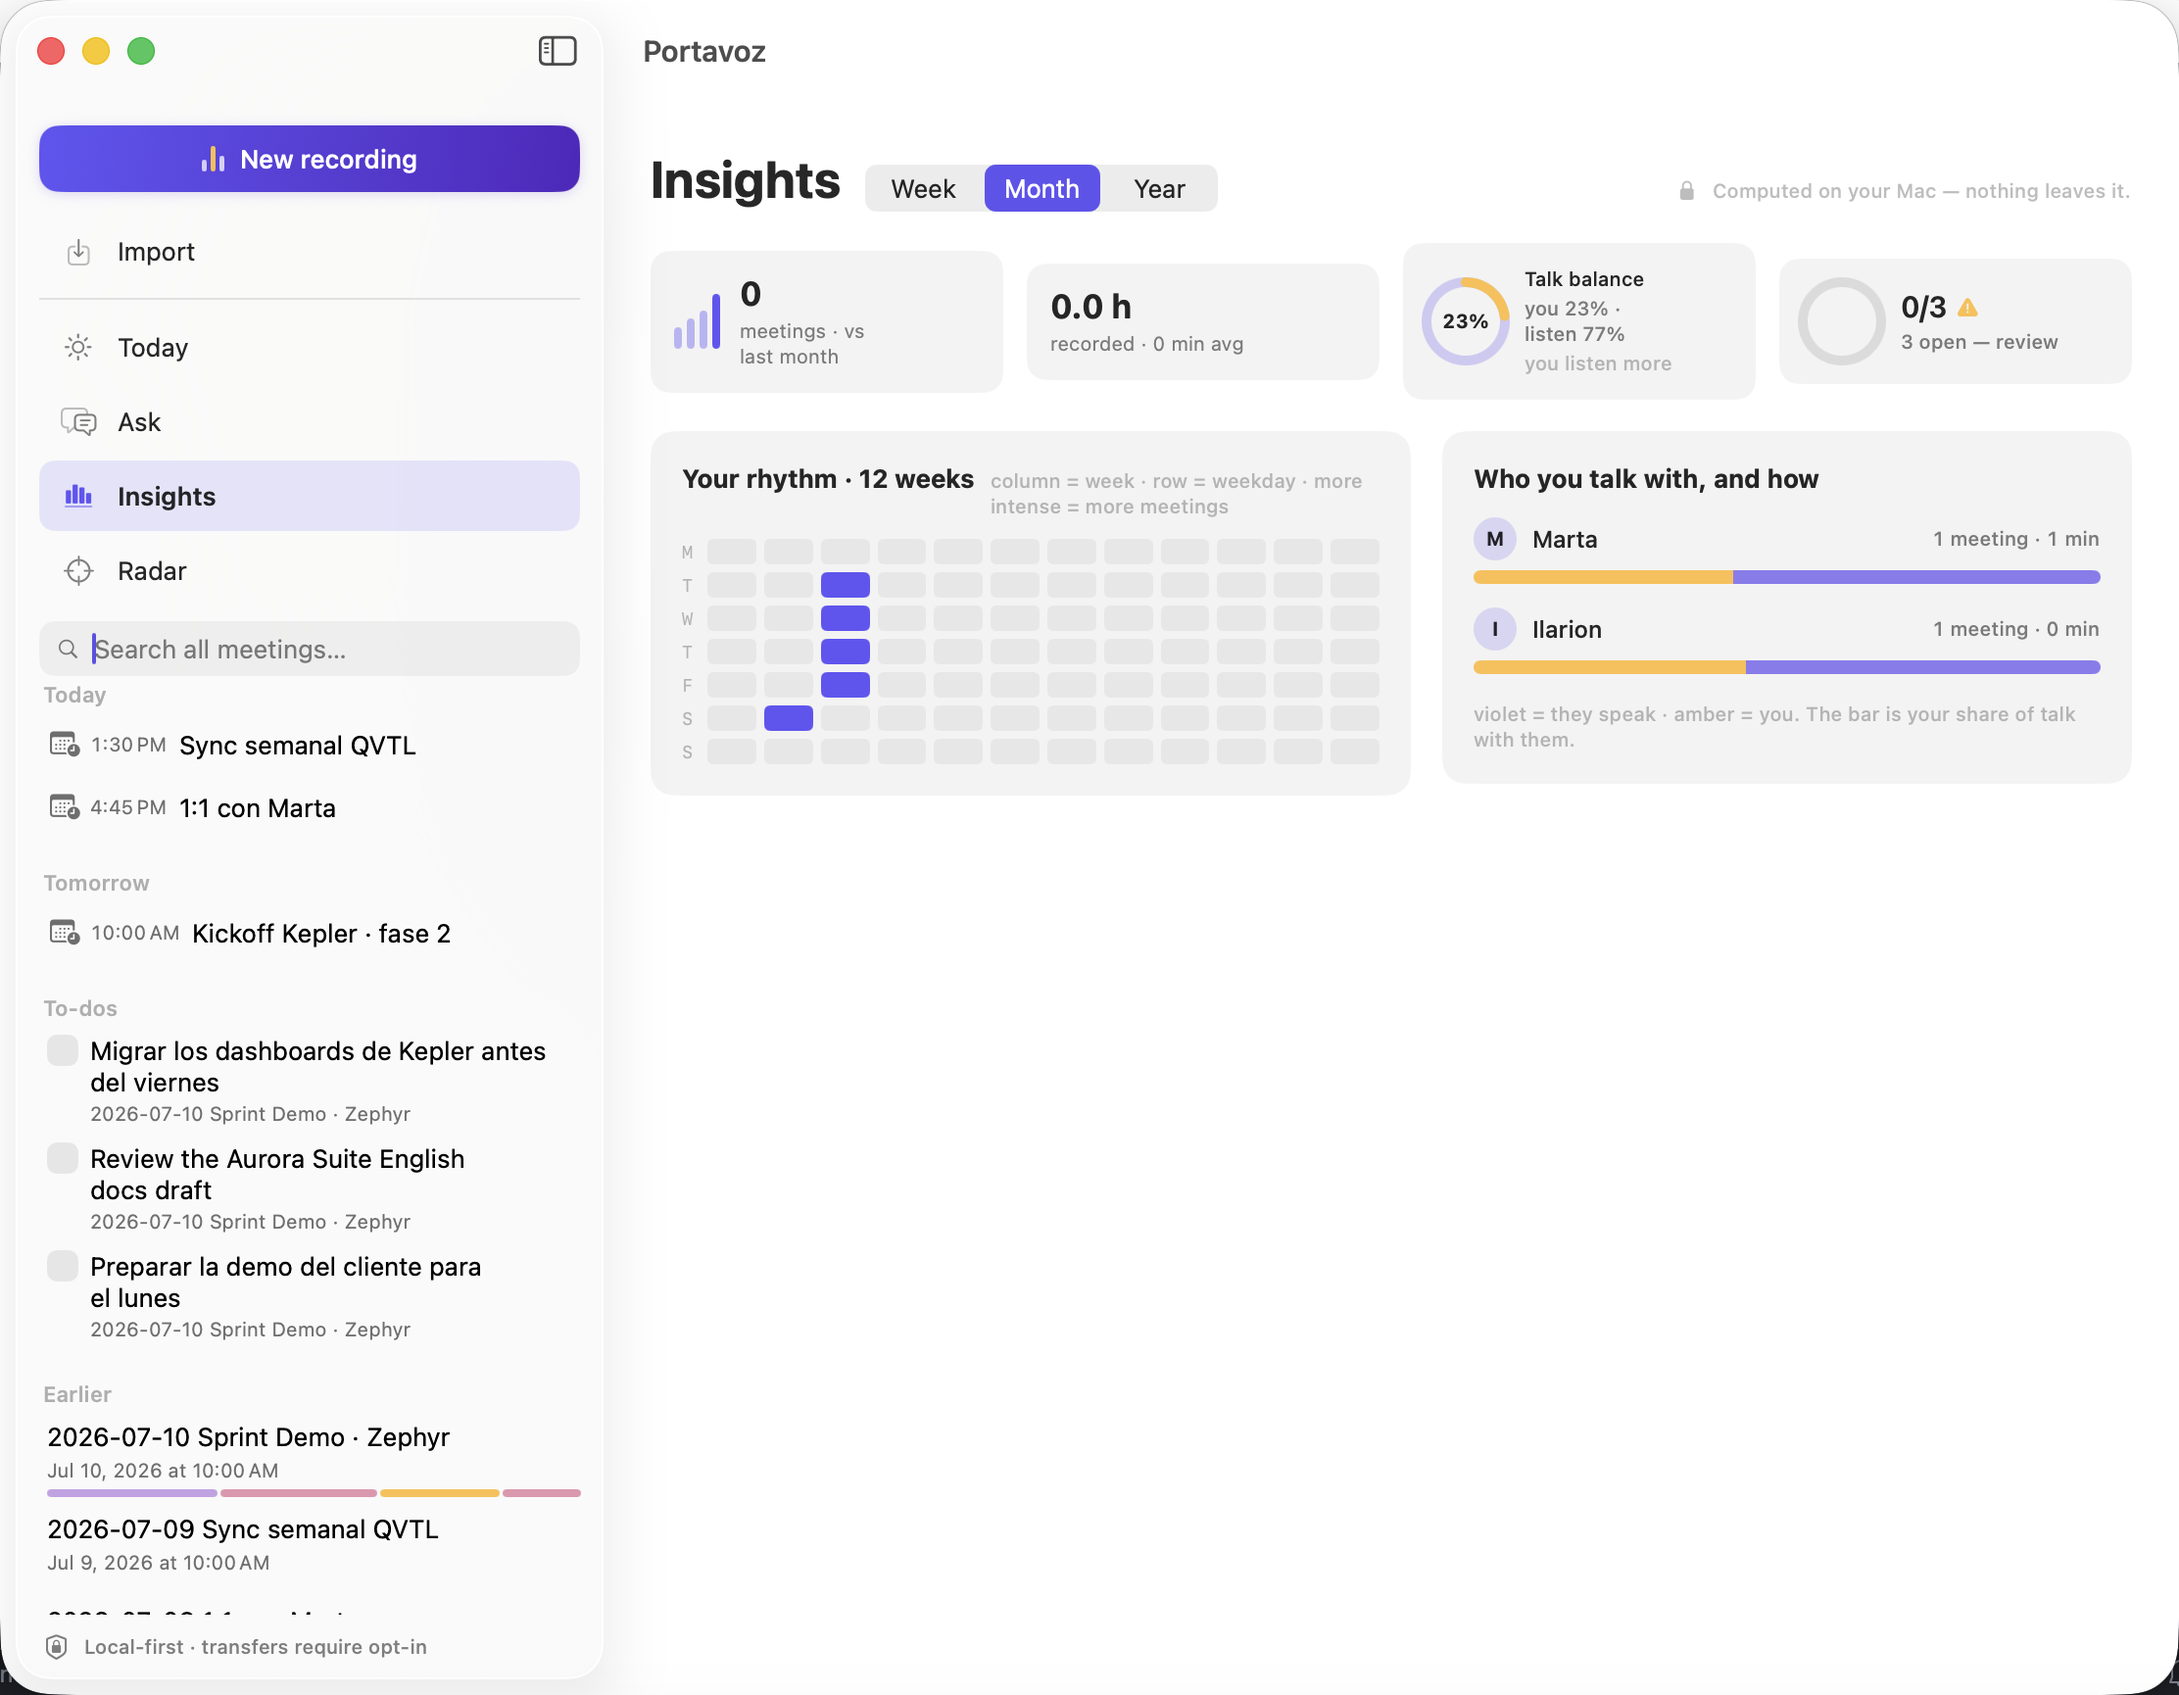
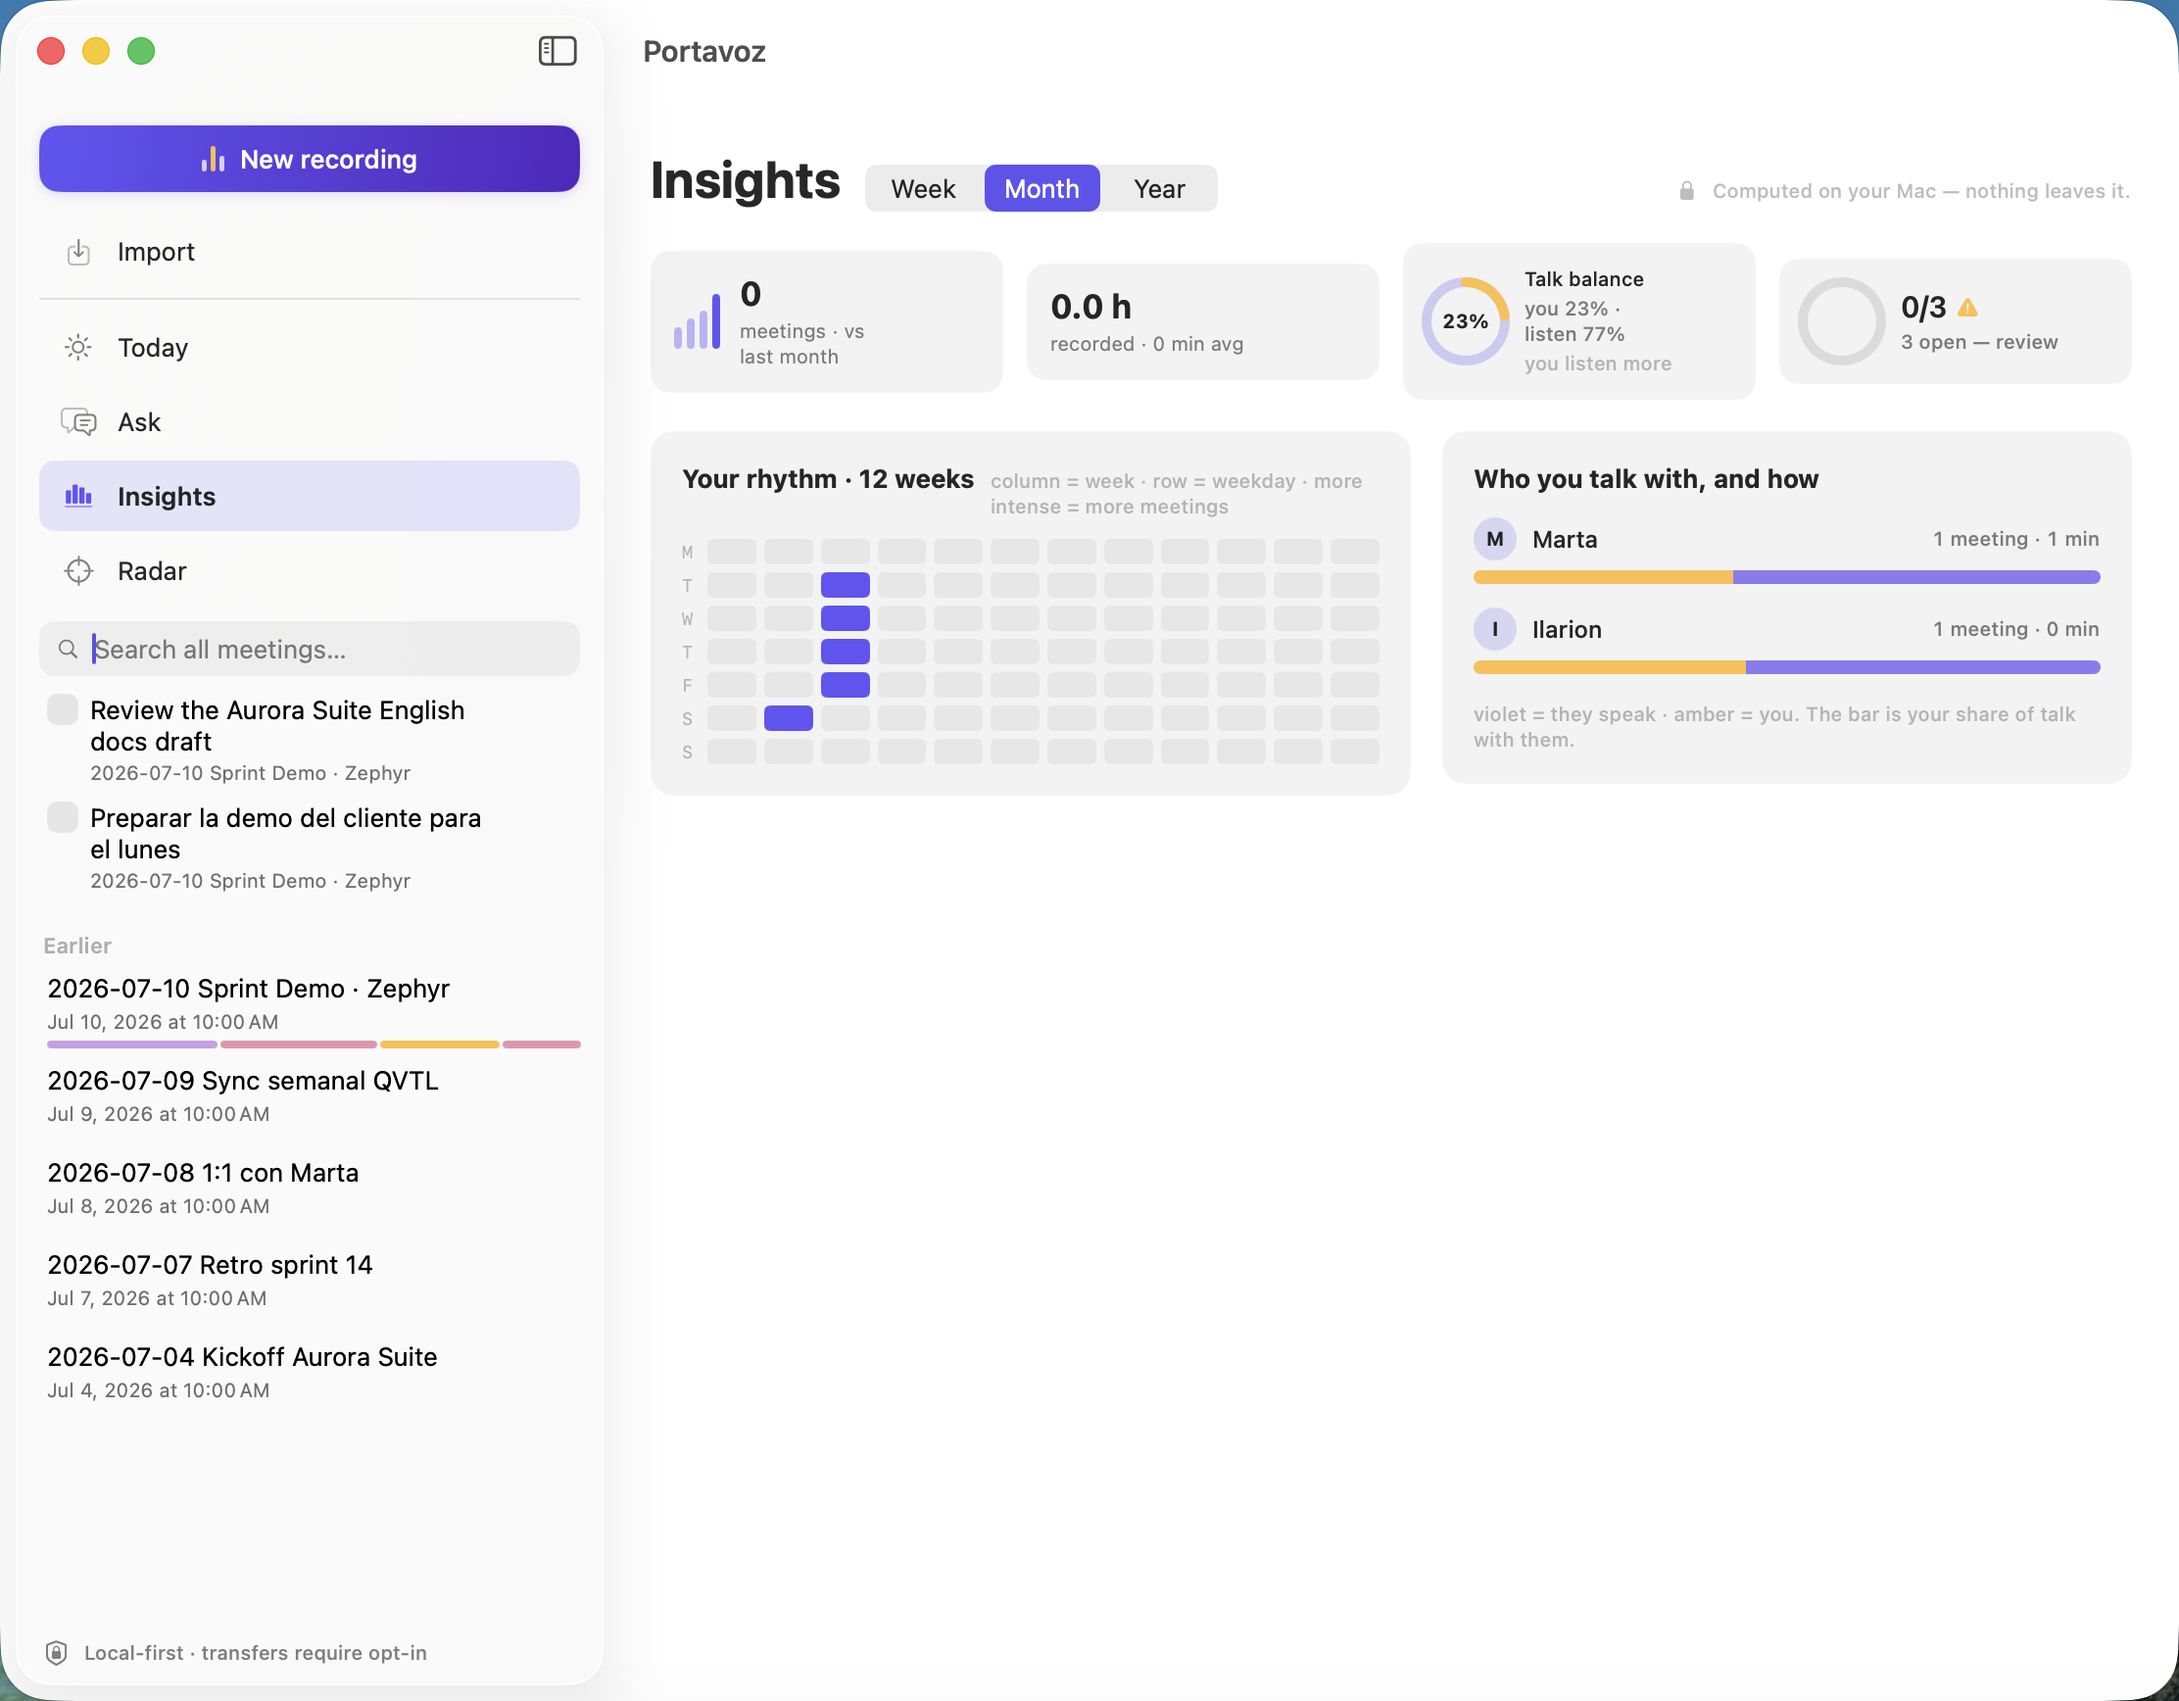
fix(testing): keep the showcase sidebar reachable on hosted runners
The fictional Today agenda lengthened the showcase sidebar, and a hosted
runner's shorter window then pushed the first meeting row below the fold.
`waitForSeededLibraryToSettle` waits for that row to be hittable, so the
four screenshot journeys spun for 45 seconds and failed in both locales
while passing on a larger local display.

The agenda now requires an explicit `-seed-showcase-agenda` argument, so
only the Today journey opts into it, and that journey waits on its own
surface — the seed marker plus `home-title` — instead of a sidebar row it
does not use. The other three journeys see exactly the sidebar they saw
before. The published Today screenshot keeps the full agenda.

diff --git a/Tests/PortavozUITests/PublicShowcaseUITests.swift b/Tests/PortavozUITests/PublicShowcaseUITests.swift
@@ -77,11 +77,15 @@ final class PublicShowcaseUITests: PortavozUITestCase {
     @MainActor
     func testTodayShowcase() {
         let app = XCUIApplication.portavoz(seedShowcase: true)
+        app.launchArguments.append("-seed-showcase-agenda")
         app.launchPortavoz()
         defer { app.terminate() }
 
-        XCTAssertTrue(app.waitForSeededLibraryToSettle())
-        XCTAssertTrue(app.staticTexts["home-title"].waitForExistenceFast(timeout: 10))
+        // Today renders in the detail pane, so this journey waits on its own
+        // surface rather than on a sidebar row the agenda may push down.
+        XCTAssertTrue(app.waitForSeedFixtureReady())
+        XCTAssertTrue(app.prepareForInteraction())
+        XCTAssertTrue(app.staticTexts["home-title"].waitForExistenceFast(timeout: 20))
         XCTAssertTrue(
             app.control(withIdentifier: "home-upcoming-showcase-sync-qvtl")
                 .waitForExistenceFast(timeout: 10))

diff --git a/Sources/portavoz-app/AppServices+Library.swift b/Sources/portavoz-app/AppServices+Library.swift
@@ -116,7 +116,9 @@ extension AppServices: LibraryModelClient {
                     attendees: ["Ana"])],
                 tomorrow: [])
         }
-        if arguments.contains("-seed-showcase") {
+        // Opt-in, because agenda rows lengthen the sidebar and the other
+        // showcase journeys assert on a meeting row being reachable there.
+        if arguments.contains("-seed-showcase-agenda") {
             return Self.showcaseAgenda()
         }
         guard !ProcessInfo.processInfo.arguments.contains("-use-temp-store") else {
